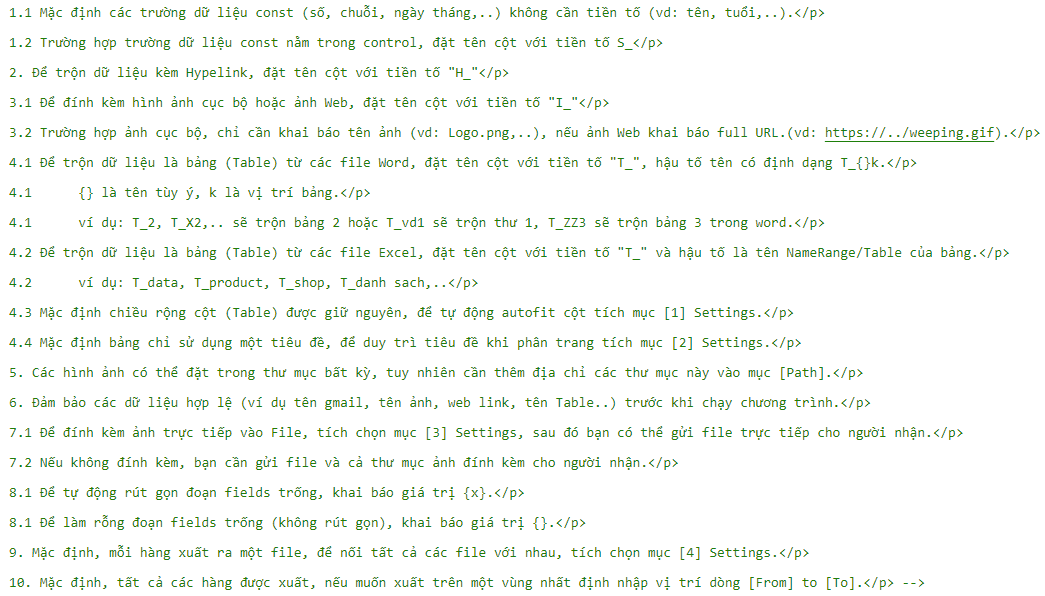
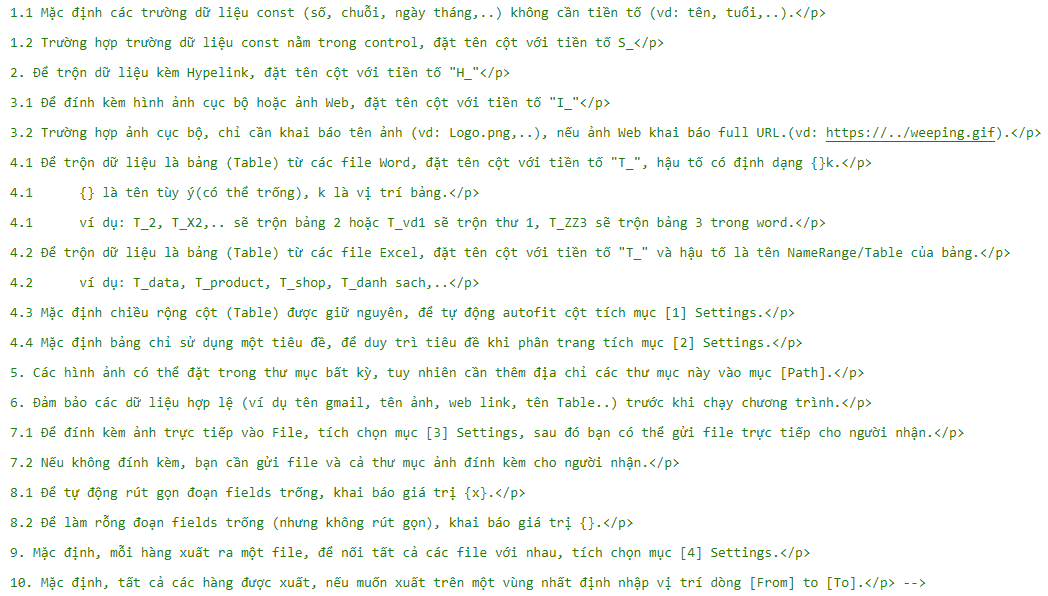
ok

diff --git a/r.mailmerge.html b/r.mailmerge.html
@@ -53,8 +53,8 @@
         <p>&nbsp;   2. Để trộn dữ liệu kèm Hypelink, đặt tên cột với tiền tố "H_"</p>
         <p>&nbsp;   3.1 Để đính kèm hình ảnh cục bộ hoặc ảnh Web, đặt tên cột với tiền tố "I_"</p>
         <p>&nbsp;   3.2 Trường hợp ảnh cục bộ, chỉ cần khai báo tên ảnh (vd: Logo.png,..), nếu ảnh Web khai báo full URL.(vd: https://../weeping.gif).</p>
-        <p>&nbsp;   4.1 Để trộn dữ liệu là bảng (Table) từ các file Word, đặt tên cột với tiền tố "T_", hậu tố tên có định dạng T_{}k.</p>
-        <p>&nbsp;   4.1      {} là tên tùy ý, k là vị trí bảng.</p>
+        <p>&nbsp;   4.1 Để trộn dữ liệu là bảng (Table) từ các file Word, đặt tên cột với tiền tố "T_", hậu tố có định dạng {}k.</p>
+        <p>&nbsp;   4.1      {} là tên tùy ý(có thể trống), k là vị trí bảng.</p>
         <p>&nbsp;   4.1      ví dụ: T_2, T_X2,.. sẽ trộn bảng 2 hoặc T_vd1 sẽ trộn thư 1, T_ZZ3 sẽ trộn bảng 3 trong word.</p>
         <p>&nbsp;   4.2 Để trộn dữ liệu là bảng (Table) từ các file Excel, đặt tên cột với tiền tố "T_" và hậu tố là tên NameRange/Table của bảng.</p>
         <p>&nbsp;   4.2      ví dụ: T_data, T_product, T_shop, T_danh sach,..</p>
@@ -65,7 +65,7 @@
         <p>&nbsp;   7.1 Để đính kèm ảnh trực tiếp vào File, tích chọn mục [3] Settings, sau đó bạn có thể gửi file trực tiếp cho người nhận.</p>
         <p>&nbsp;   7.2 Nếu không đính kèm, bạn cần gửi file và cả thư mục ảnh đính kèm cho người nhận.</p>
         <p>&nbsp;   8.1 Để tự động rút gọn đoạn fields trống, khai báo giá trị {x}.</p>
-        <p>&nbsp;   8.2 Để làm rỗng đoạn fields trống (không rút gọn), khai báo giá trị {}.</p>
+        <p>&nbsp;   8.2 Để làm rỗng đoạn fields trống (nhưng không rút gọn), khai báo giá trị {}.</p>
         <p>&nbsp;   9. Mặc định, mỗi hàng xuất ra một file, để nối tất cả các file với nhau, tích chọn mục [4] Settings.</p>
         <p>&nbsp;   10. Mặc định, tất cả các hàng được xuất, nếu muốn xuất trên một vùng nhất định nhập vị trí dòng [From] to [To].</p> -->
         <img src="gif/r.mailmerge.note.png">

diff --git a/latest updates.html b/latest updates.html
@@ -9,7 +9,7 @@
 </head>
 
 <body>
-    <h1> Latest update [10.2.6.76]
+    <h1> Latest update [10.2.6.79]
         <a href="interface"><button class="button button4" style="float: right;"><b>Download</b></button></a>
     </h1>
 
@@ -31,7 +31,7 @@
                     d="m7.775 3.275 1.25-1.25a3.5 3.5 0 1 1 4.95 4.95l-2.5 2.5a3.5 3.5 0 0 1-4.95 0 .751.751 0 0 1 .018-1.042.751.751 0 0 1 1.042-.018 1.998 1.998 0 0 0 2.83 0l2.5-2.5a2.002 2.002 0 0 0-2.83-2.83l-1.25 1.25a.751.751 0 0 1-1.042-.018.751.751 0 0 1-.018-1.042Zm-4.69 9.64a1.998 1.998 0 0 0 2.83 0l1.25-1.25a.751.751 0 0 1 1.042.018.751.751 0 0 1 .018 1.042l-1.25 1.25a3.5 3.5 0 1 1-4.95-4.95l2.5-2.5a3.5 3.5 0 0 1 4.95 0 .751.751 0 0 1-.018 1.042.751.751 0 0 1-1.042.018 1.998 1.998 0 0 0-2.83 0l-2.5 2.5a1.998 1.998 0 0 0 0 2.83Z">
                 </path>
             </svg>
-            <font style="vertical-align: inherit;">Vs 10.2.6.75</font>
+            <font style="vertical-align: inherit;">Vs 10.2.6.75-79</font>
         </note>
     </p>
     <blockquote>
